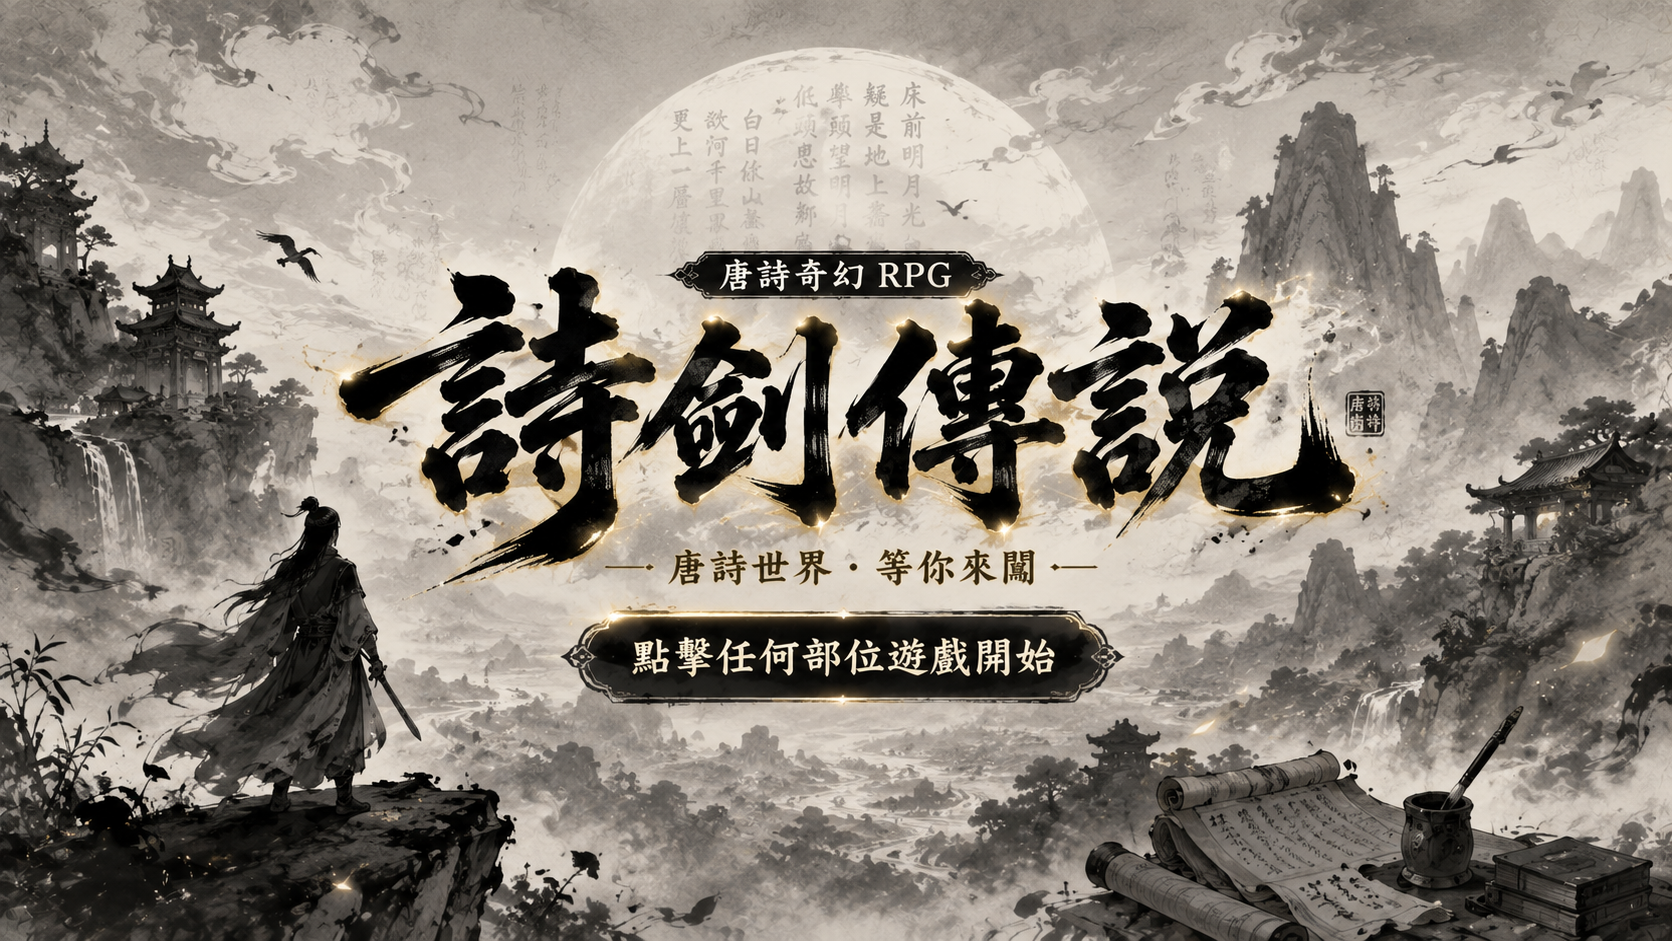
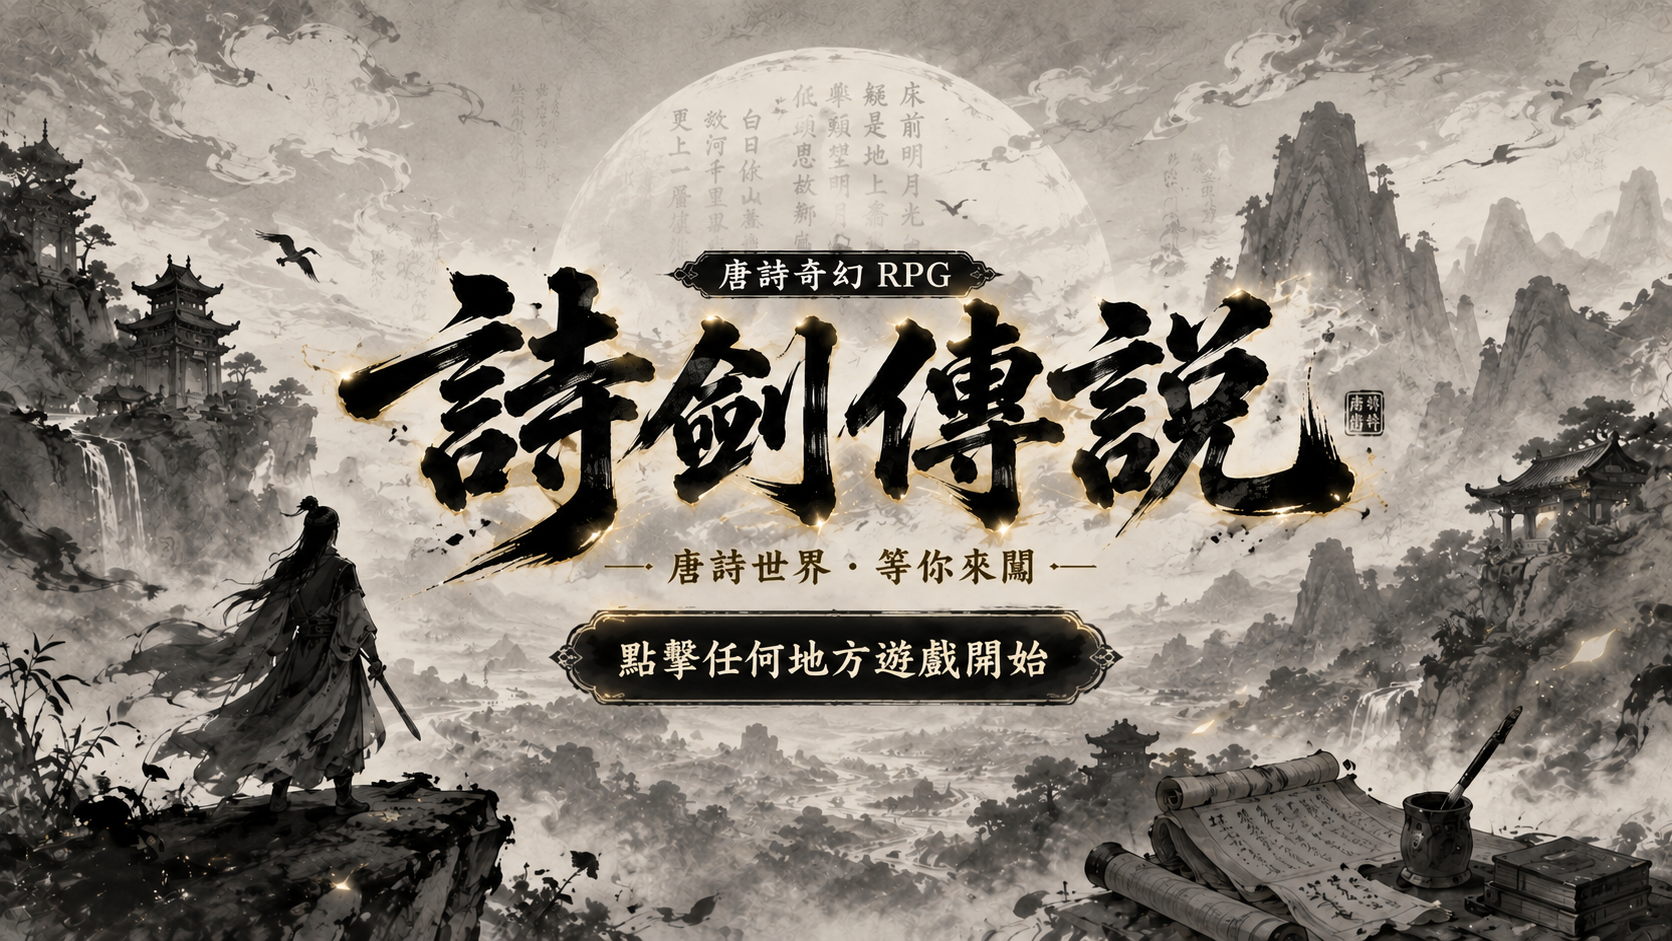
update adventure map cover

diff --git a/示範作品/大冒險地圖/index.html b/示範作品/大冒險地圖/index.html
@@ -435,7 +435,7 @@
 </head>
 <body>
   <div class="cover" id="cover" aria-label="遊戲開場封面">
-    <img src="cover.png" alt="大冒險地圖開場封面">
+    <img src="cover.png?v=20260619" alt="大冒險地圖開場封面">
     <div class="cover-hint">點一下開始冒險</div>
   </div>
 